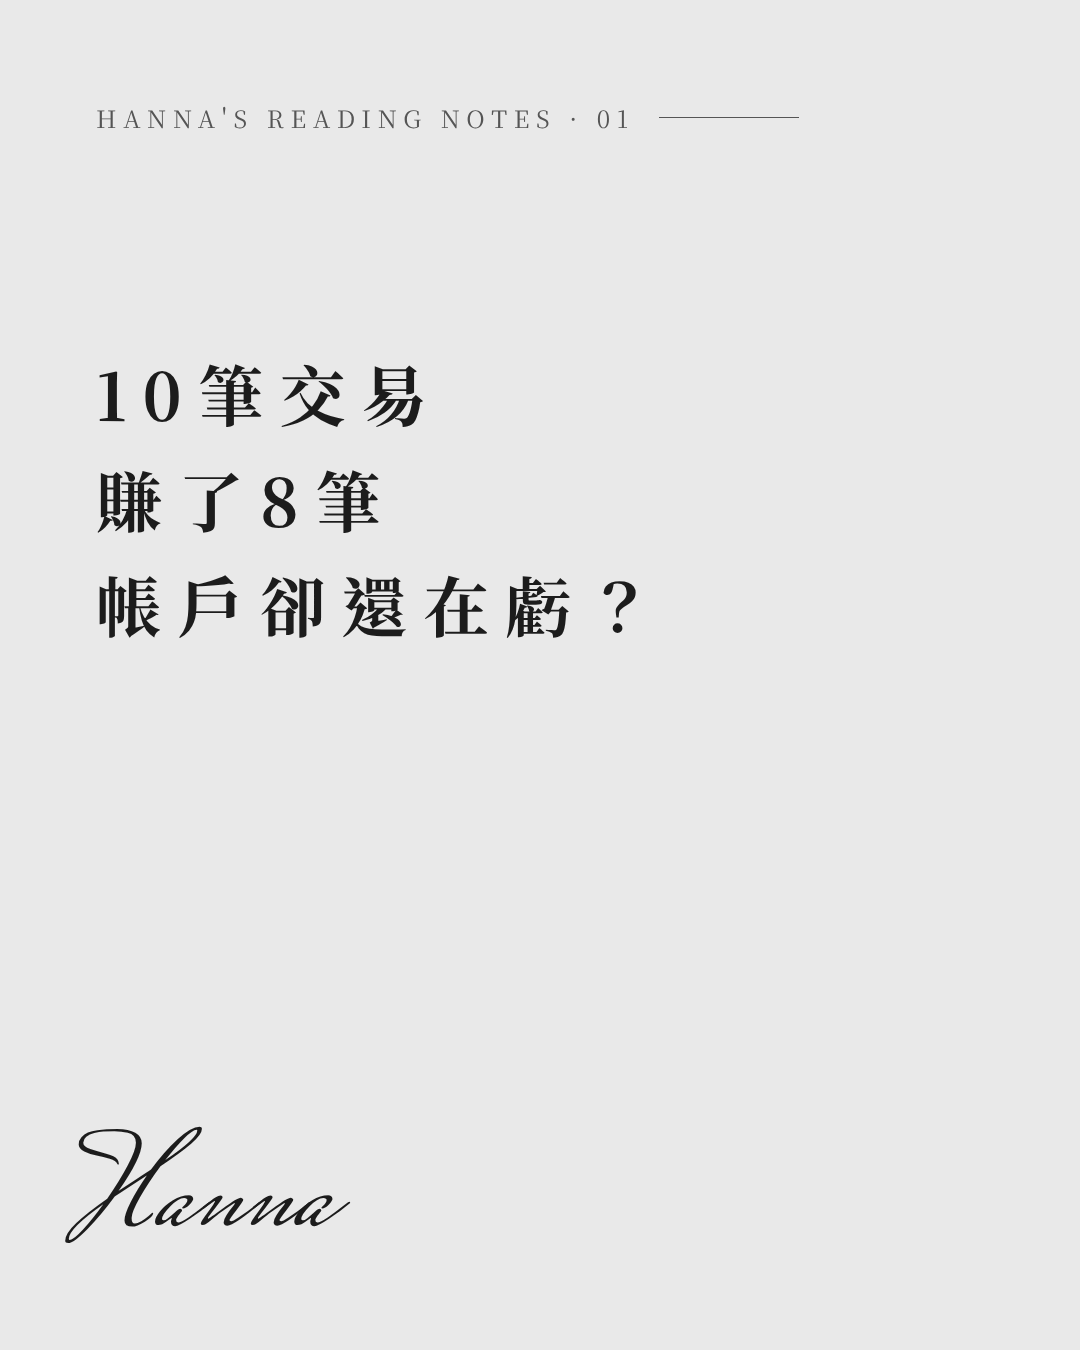
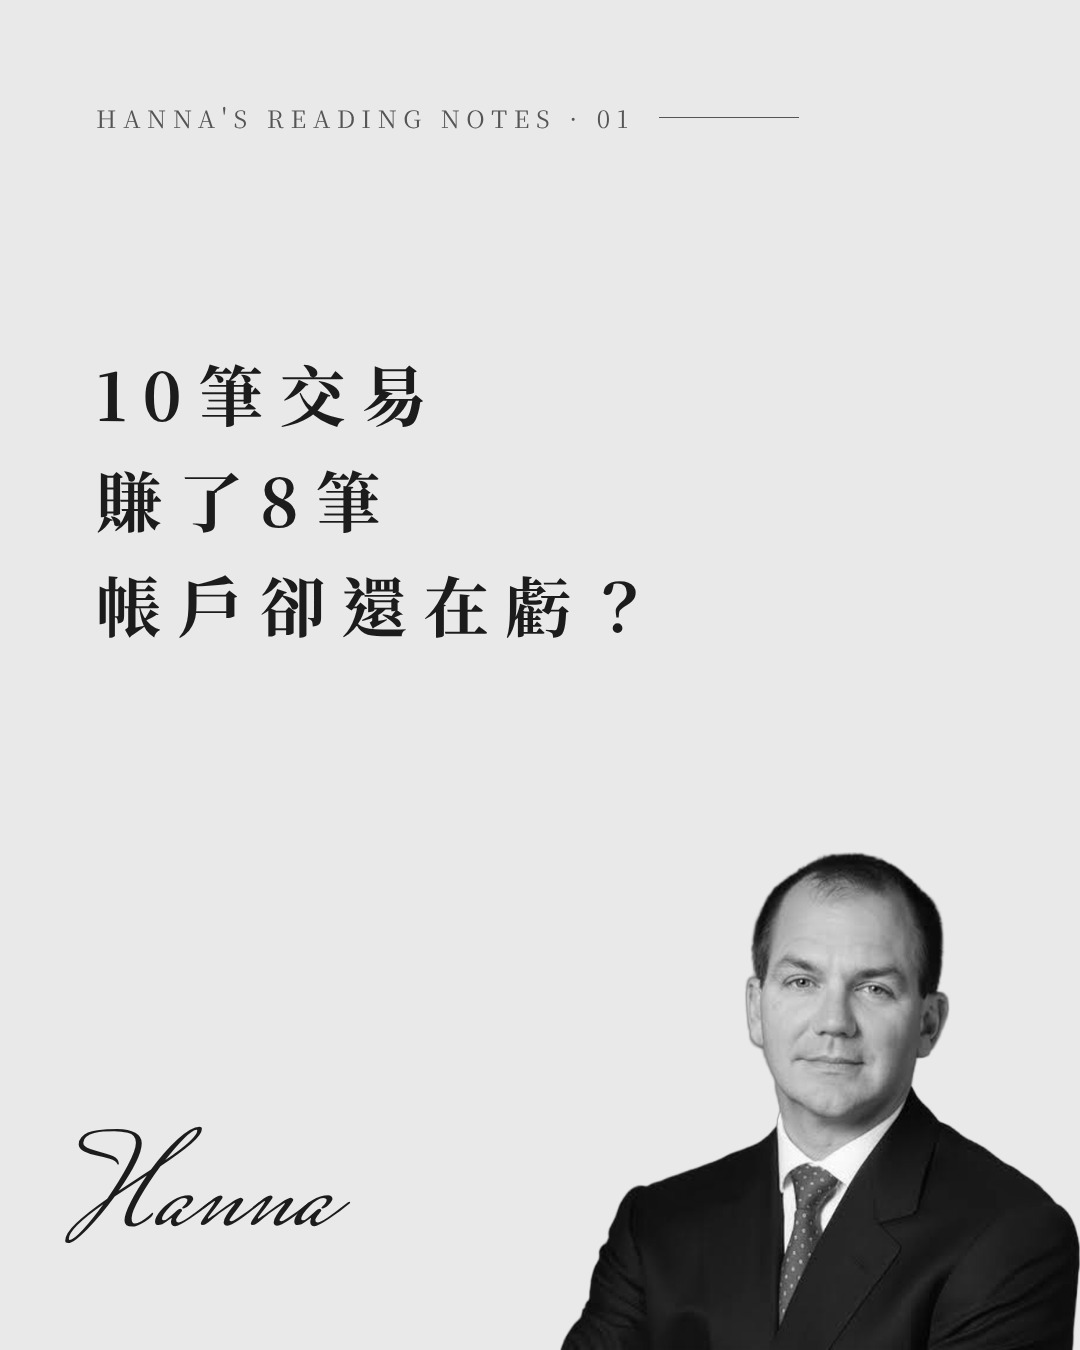
賺賠比輪播：封面加入 Paul Tudor Jones 去背照
Claude-Session: https://claude.ai/code/session_01AFjNkU8XspDCm6xvkskaQj

Changed region(s): [[0.5194, 0.6222, 1.0, 1.0]]

diff --git a/IP經營/輪播_賺賠比/slides.html b/IP經營/輪播_賺賠比/slides.html
@@ -20,7 +20,7 @@
   }
   .series::after { content: ""; width: 140px; height: 1px; background: var(--soft); }
   .person {
-    position: absolute; right: 0; bottom: 0; width: 430px; height: 520px;
+    position: absolute; right: 0; bottom: 0; width: 520px; height: 498px;
     background: url(person.png) center top / cover no-repeat;
   }
   .who { position: absolute; left: 96px; bottom: 330px; }

diff --git a/IP經營/輪播貼文_賺賠比.md b/IP經營/輪播貼文_賺賠比.md
@@ -2,7 +2,7 @@
 
 圖檔：`IP經營/輪播_賺賠比/01.png`～`10.png`
 人物：Paul Tudor Jones（封面不顯示姓名，第 5 張揭曉）
-封面人物照：待使用者提供，收到後放成 `IP經營/輪播_賺賠比/person.png` 並重新算圖
+封面人物照：使用者提供的照片，裁到頭和肩膀後去背（birefnet-portrait）
 
 依據數據調整：
 - 封面用讀者算得出來的數字（10 筆賺 8 筆）
